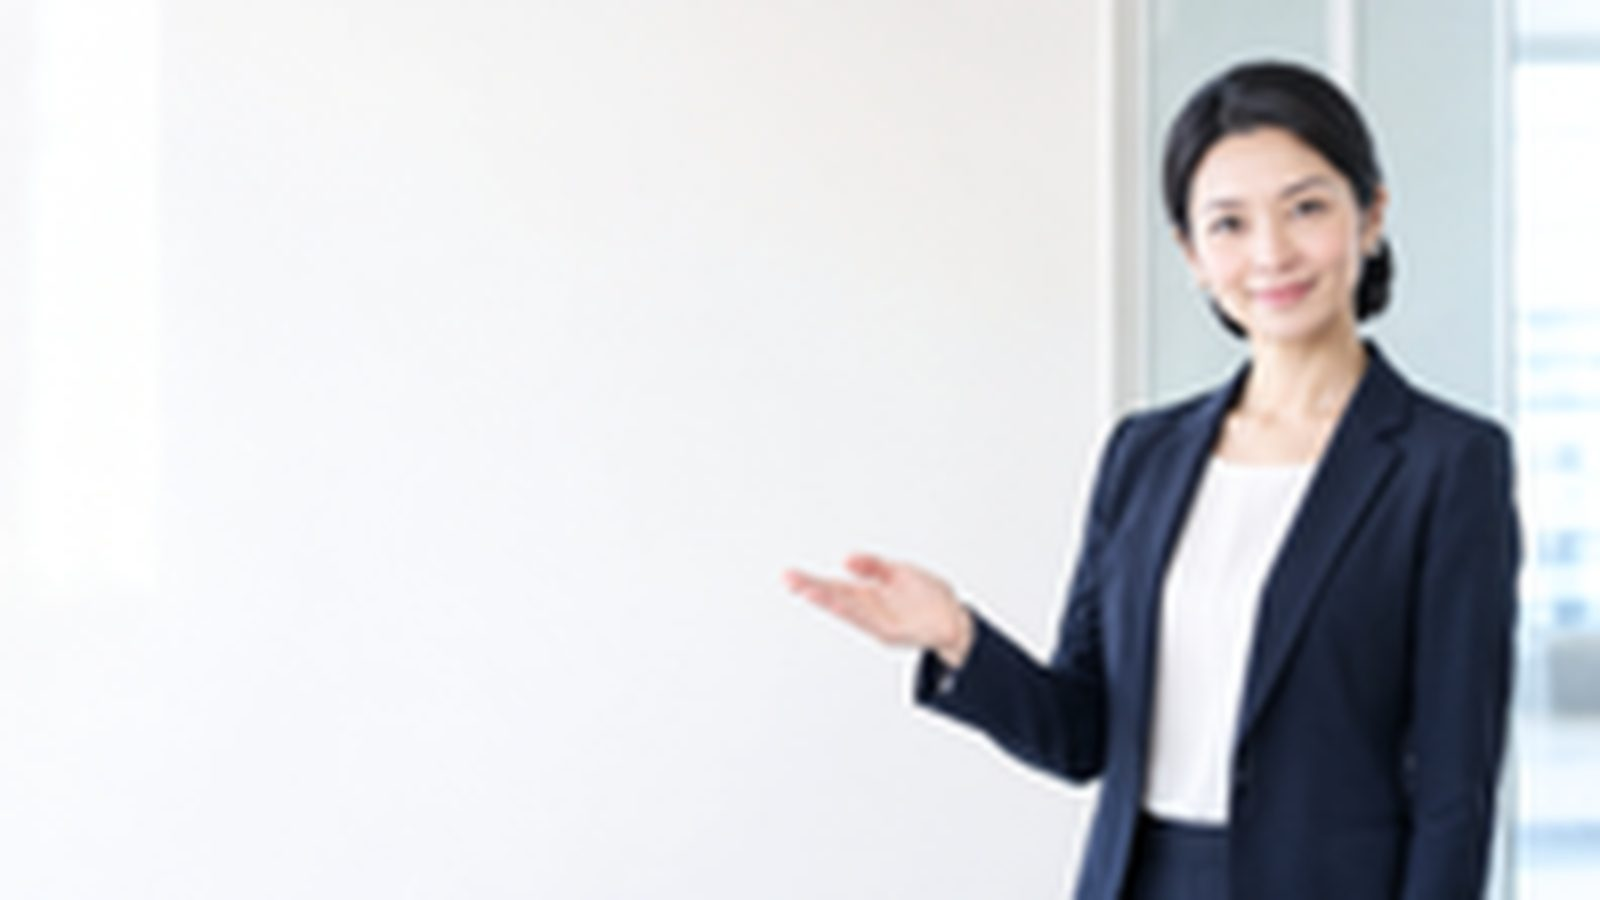
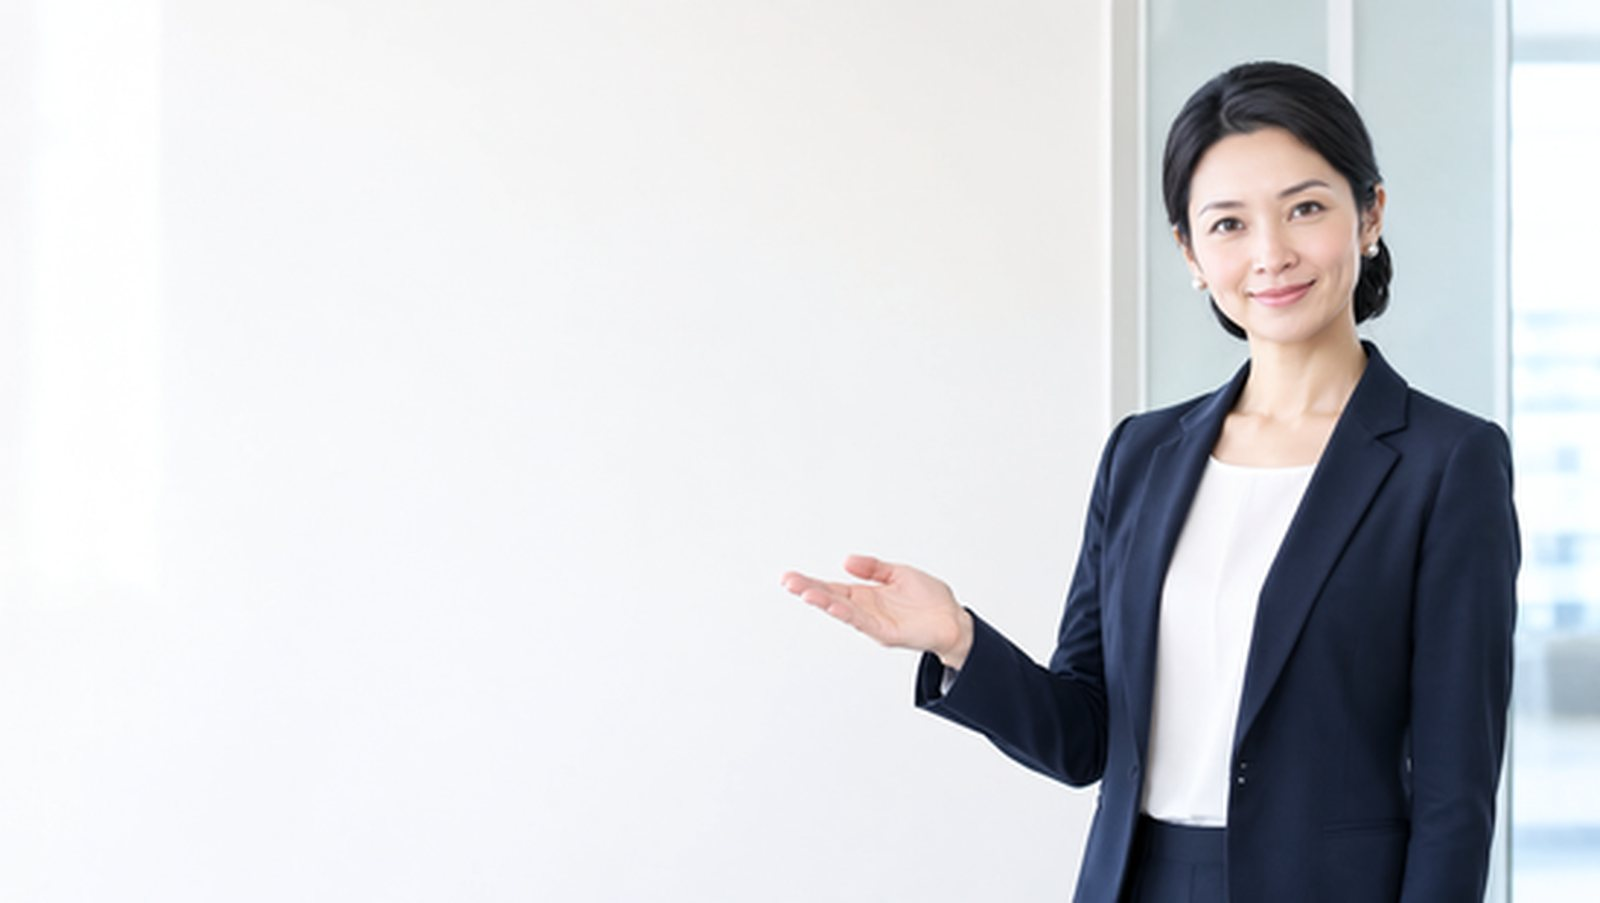
ATKey LP: use uploaded photos for mobile first view, section 02 and medical case card
Claude-Session: https://claude.ai/code/session_01J24fcvF8DFkLxtgTZHXicp

diff --git a/README.md b/README.md
@@ -97,8 +97,8 @@
 | atkey-pro.png | ATKey.Pro（USB型）製品写真・背景透過 | 資料PDFから切り出し 446×286 → 1600×1100以上がほしい |
 | atkey-card.png | ATKey.Card NFC（カード型）製品写真・背景透過 | 資料PDFから切り出し 676×450 → 1600×1100以上がほしい |
 | fv-bg.jpg | ファーストビューの背景（明るいオフィス・人物の後ろ姿）。うすく敷く | いまは仮（ぼかした低解像度）。Canva の元画像 2720×1536 に差し替える |
-| fv-bg-sp.jpg | スマホ用ファーストビュー背景（ショートボブ・グレーのジャケット・胸に手を添えた女性）。横長の元画像を入れれば、右側の人物部分をこちらで切り抜く。**いまは仮（低解像度）** | 元画像 2720×1536 |
-| bg-02.jpg | 02 の背景（ネイビーのスーツ・まとめ髪の女性が手のひらを差し出す「お任せください」）。**いまは仮（低解像度）** | 元画像 2720×1536 |
+| fv-bg-sp.jpg | スマホ用ファーストビュー背景（ショートボブ・グレーのジャケット・胸に手を添えた女性）。差し替えずみ（549×310 の画像から右側を切り抜き） | もっと大きい元画像があれば上書き |
+| bg-02.jpg | 02 の背景（ネイビーのスーツ・まとめ髪の女性が手のひらを差し出す「お任せください」）。差し替えずみ（549×310 を拡大） | もっと大きい元画像があれば上書き |
 | bg-04.jpg | 04「導入事例」の背景（オフィスビルのロビー） | 同上 |
 | bg-06.jpg | 06「導入方法・購入案内」の背景（打ち合わせ） | 同上 |
 | bg-08.jpg | 08「お問い合わせ」の背景（受付で握手する2人）。差し替えずみ | 2000×1129（圧縮ずみ） |
